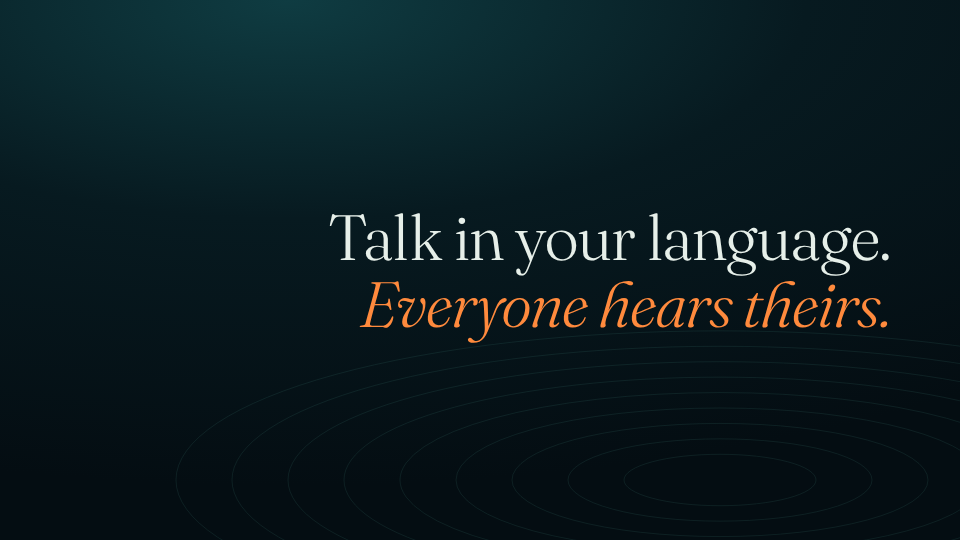
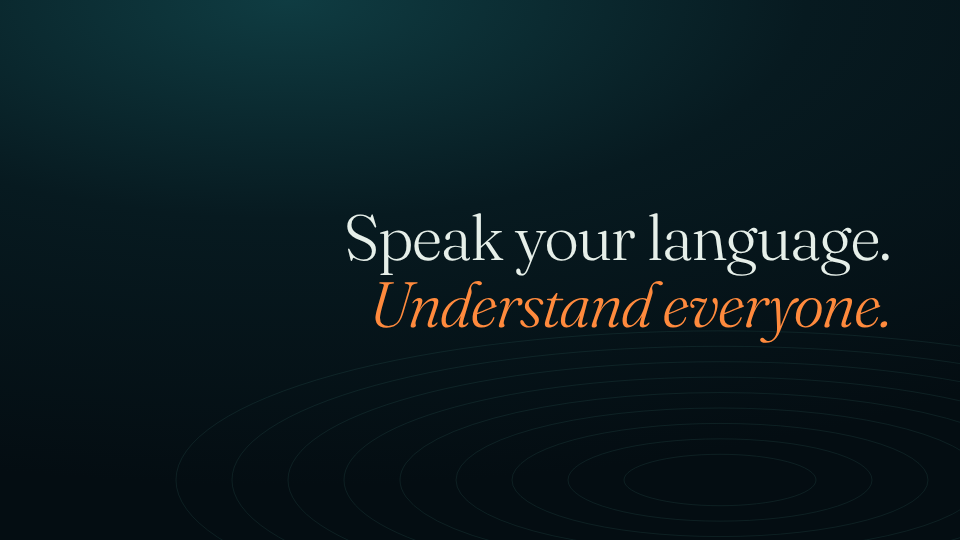
Speak your language. Understand everyone.
A headline that fits both the website and the Discord bot, on the page,
link preview, Discord banner and brand page. The transcript scrollbar is
hidden, and the shadow behind the text is lighter and fades out fully.

Changed region(s): [[0.3438, 0.3852, 0.9375, 0.6519]]

diff --git a/index.html b/index.html
@@ -14,7 +14,7 @@
 <link rel="manifest" href="/site.webmanifest">
 <meta property="og:type" content="website">
 <meta property="og:site_name" content="VocaLink">
-<meta property="og:title" content="VocaLink: talk in your language, everyone hears theirs">
+<meta property="og:title" content="VocaLink: speak your language, understand everyone">
 <meta property="og:description" content="Live voice translation, in your browser and on Discord. Built for Tagalog, English and Taglish first.">
 <meta property="og:image" content="https://vocalinktest.vercel.app/brand/og.png">
 <meta property="og:url" content="https://vocalinktest.vercel.app/">
@@ -304,8 +304,10 @@ body.explore .explore-bar{opacity:1;transform:translate(-50%,0);pointer-events:a
 .stage{display:flex;justify-content:center;flex:1;min-height:0;padding-bottom:116px}
 .reader{position:relative;isolation:isolate;width:min(820px,100%);display:flex;flex-direction:column;height:calc(100vh - 76px - 116px);height:calc(100dvh - 76px - 116px)}
 .reader::before{content:"";position:absolute;inset:-30px -120px -10px;z-index:-1;pointer-events:none;
-  background:radial-gradient(58% 60% at 50% 52%,rgba(2,9,12,.78) 0%,rgba(2,9,12,.55) 55%,rgba(2,9,12,0) 100%)}
-.scroll{flex:1;overflow-y:auto;padding:12px 8px 0;-webkit-mask-image:linear-gradient(to bottom,transparent 0,#000 56px);mask-image:linear-gradient(to bottom,transparent 0,#000 56px);scrollbar-width:thin;scrollbar-color:var(--line2) transparent}
+  background:radial-gradient(closest-side at 50% 52%,rgba(2,9,12,.46) 0%,rgba(2,9,12,.26) 60%,rgba(2,9,12,0) 100%);transition:opacity .6s var(--ease)}
+.reader:has(#empty:not([hidden]))::before{opacity:.55}
+.scroll{flex:1;overflow-y:auto;padding:12px 8px 0;-webkit-mask-image:linear-gradient(to bottom,transparent 0,#000 56px);mask-image:linear-gradient(to bottom,transparent 0,#000 56px);scrollbar-width:none}
+.scroll::-webkit-scrollbar{display:none}
 .feed{padding-top:40px}
 .entry{grid-template-columns:72px 1fr;padding:18px 0;border-bottom:1px solid rgba(170,230,215,.08)}
 .entry time{white-space:nowrap}
@@ -427,7 +429,7 @@ body.explore .dockwrap{opacity:0;pointer-events:none}
       <h1 class="sr">Conversation <em id="pairLbl"></em></h1>
       <div class="scroll" id="scroll">
         <div class="empty" id="empty">
-          <h2>Talk in your language.<br><em>Everyone hears theirs.</em></h2>
+          <h2>Speak your language.<br><em>Understand everyone.</em></h2>
           <p class="lead">Press the orange button and talk, or share the tab your call is in. Words appear as they are spoken, and the translation follows about a second later.</p>
           <p class="also">In a Discord call? <button type="button" class="linkish" data-open="plans">Add VocaLink to your server</button> and everyone hears the others in their own language.</p>
         </div>

diff --git a/brand/index.html b/brand/index.html
@@ -74,7 +74,7 @@ ul{padding-left:20px}
 </div>
 <h2>Type</h2>
 <div class="type"><div style="font:600 34px/1.1 'Schibsted Grotesk',sans-serif;letter-spacing:-.03em">VocaLink</div><div class="n">Schibsted Grotesk Semibold, for the name only</div></div>
-<div class="type"><div style="font:300 30px/1.2 Fraunces,Georgia,serif">Talk in your language. <i style="color:#ff8a3d">Everyone hears theirs.</i></div><div class="n">Fraunces Light, for headlines and translated words</div></div>
+<div class="type"><div style="font:300 30px/1.2 Fraunces,Georgia,serif">Speak your language. <i style="color:#ff8a3d">Understand everyone.</i></div><div class="n">Fraunces Light, for headlines and translated words</div></div>
 <div class="type"><div style="font:400 17px/1.5 Manrope,sans-serif">Choose what to listen to, then press start.</div><div class="n">Manrope, for everything else</div></div>
 <h2>Name</h2>
 <p>Always "VocaLink": one word, capital V and L. The website is VocaLink, and the bot is VocaLink for Discord.</p>
